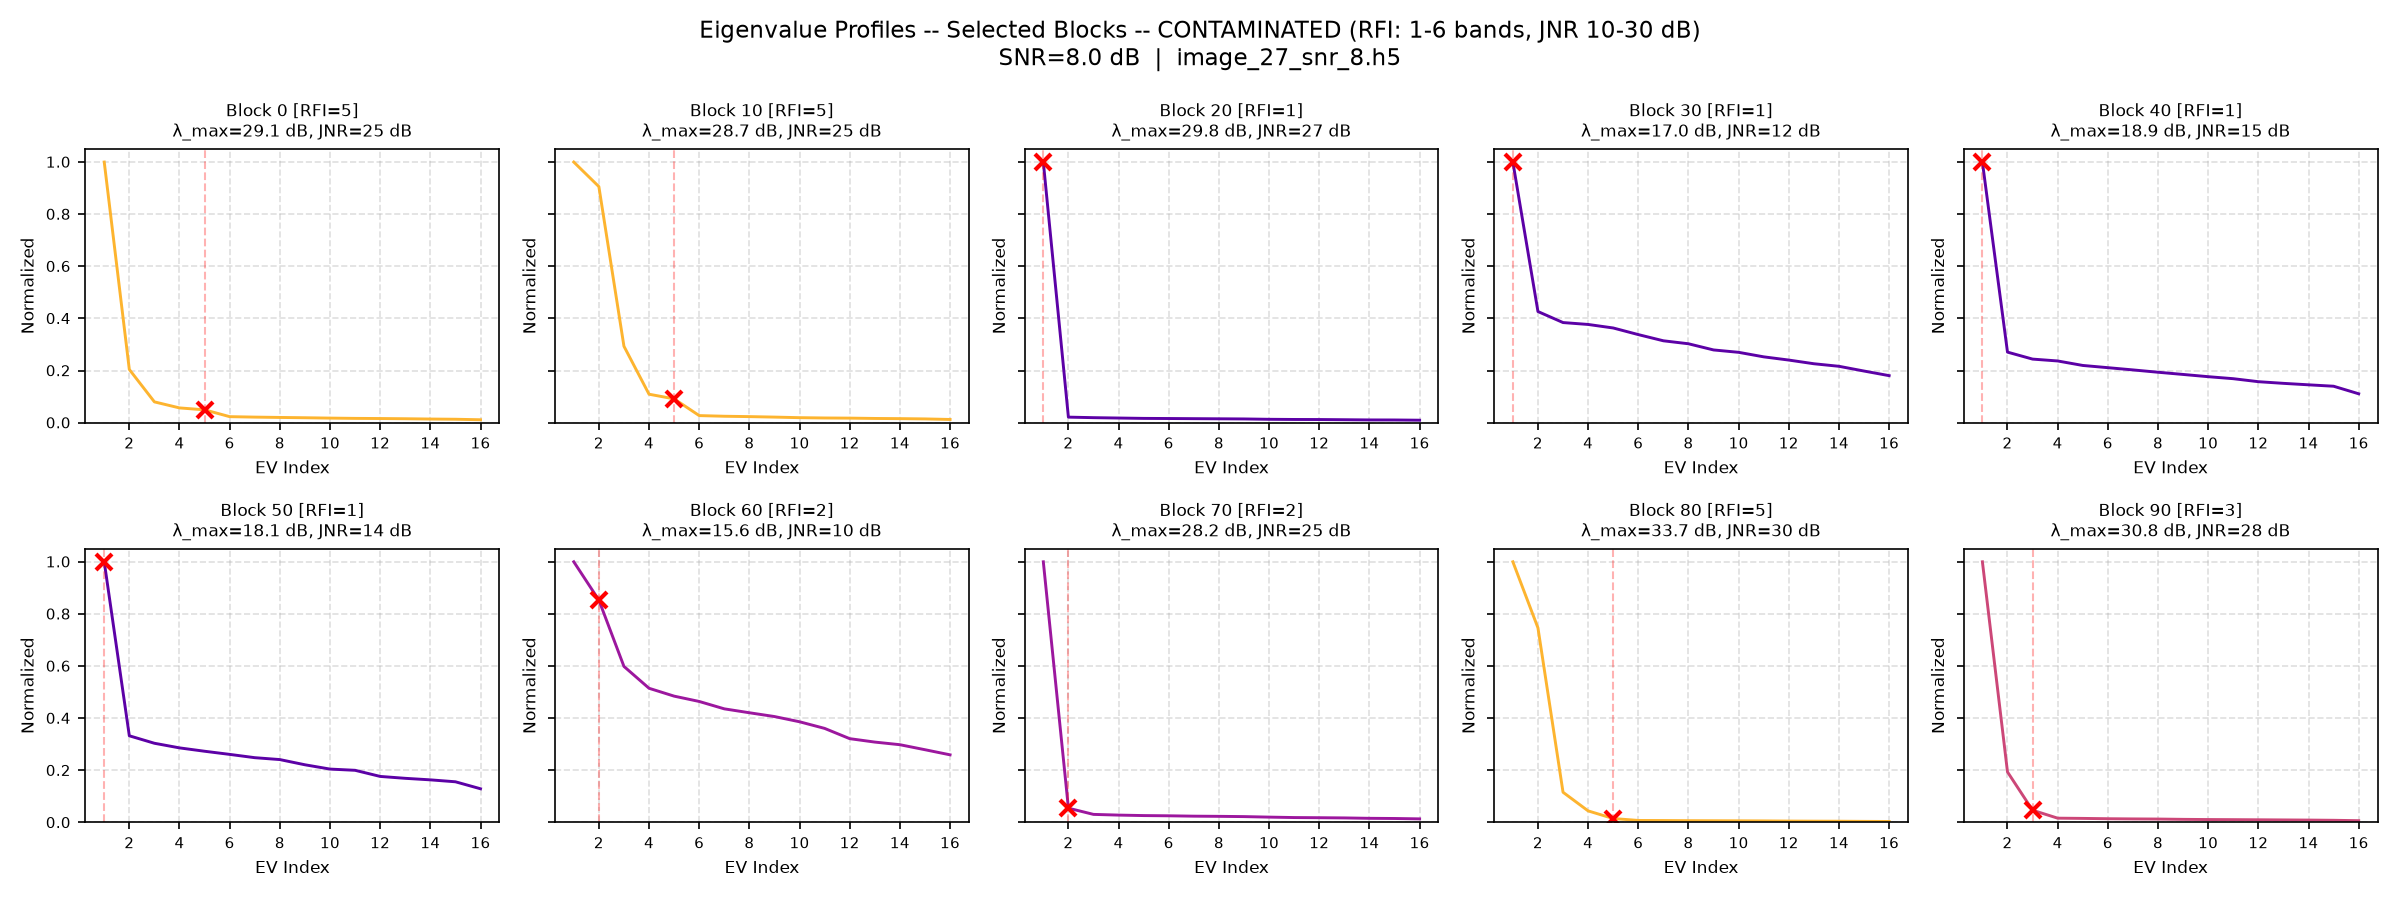
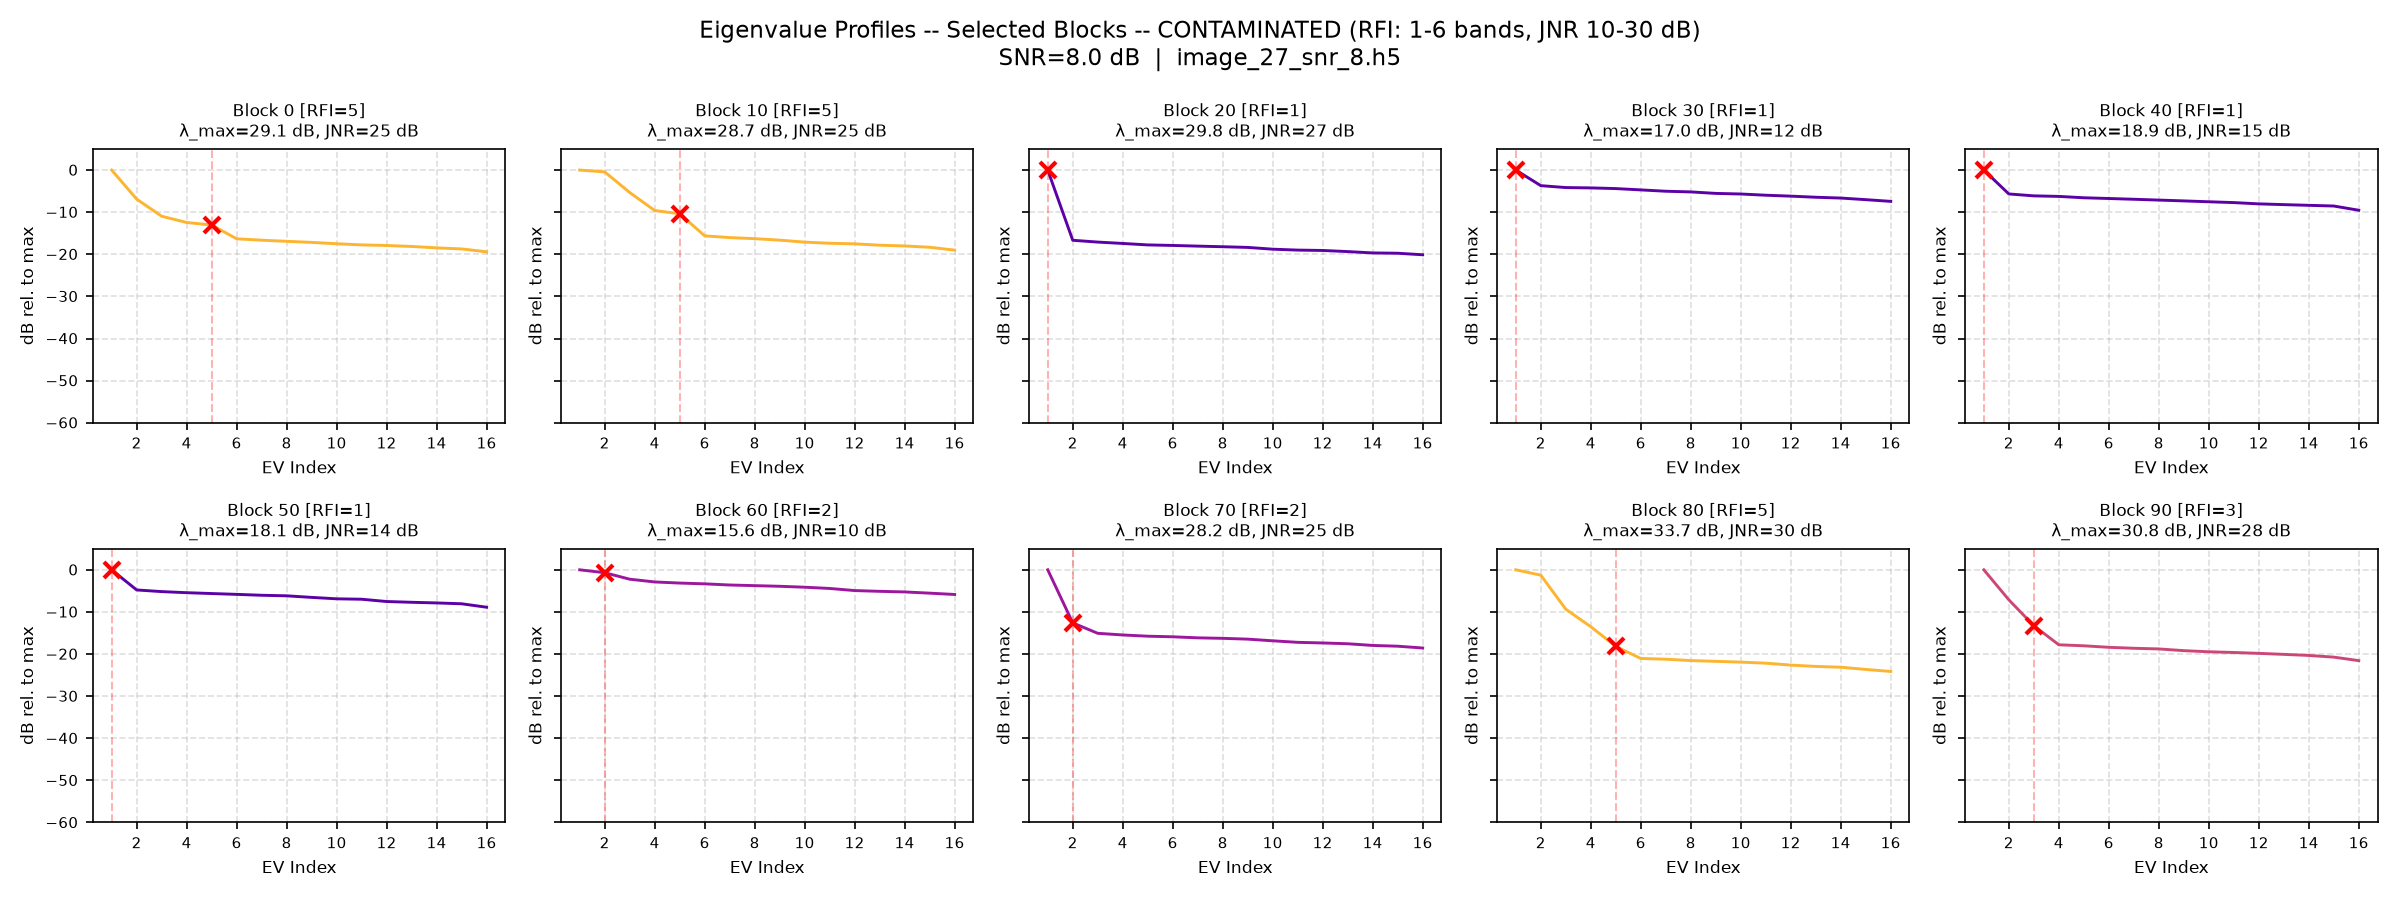
organize files

diff --git a/nisar_image/overlay_grid.py b/nisar_image/overlay_grid.py
@@ -1,0 +1,97 @@
+"""
+overlay_grid.py
+
+Overlay a horizontal pulse grid on a SAR scene image.
+Gridlines are spaced by global pulse number, not pixels.
+
+Global convention:
+    pixel row 0  <->  global pulse PULSE_START
+    pixel row H  <->  global pulse PULSE_STOP
+
+Usage:
+    python overlay_grid.py --img scene.png
+    python overlay_grid.py --img scene.png --pulse-step 5000
+    python overlay_grid.py --img scene.png --pulse-start 46528 --pulse-stop 124580
+"""
+
+import os
+import argparse
+from PIL import Image, ImageDraw, ImageFont
+
+DEFAULT_IMG         = 'image.png'
+DEFAULT_OUT         = 'scene_grid_overlay.png'
+DEFAULT_PULSE_START = 46528
+DEFAULT_PULSE_STOP  = 124580
+DEFAULT_PULSE_STEP  = 5000
+
+
+def overlay_grid(img_path, out_path, pulse_start, pulse_stop, pulse_step):
+    img  = Image.open(img_path).convert('RGB')
+    W, H = img.size
+    draw = ImageDraw.Draw(img)
+
+    font = None
+    for fp in [
+        '/usr/share/fonts/truetype/dejavu/DejaVuSansMono-Bold.ttf',
+        '/usr/share/fonts/truetype/liberation/LiberationMono-Bold.ttf',
+        '/usr/share/fonts/truetype/freefont/FreeMono.ttf',
+    ]:
+        if os.path.exists(fp):
+            font = ImageFont.truetype(fp, size=36)
+            break
+
+    pixels_per_pulse = H / (pulse_stop - pulse_start)
+
+    # Snap first gridline to the nearest pulse_step boundary above pulse_start
+    first = (pulse_start // pulse_step + 1) * pulse_step
+
+    pulse = first
+    while pulse < pulse_stop:
+        py = round((pulse - pulse_start) * pixels_per_pulse)
+        py = max(0, min(py, H - 1))
+
+        draw.line([(0, py), (W, py)], fill=(255, 255, 0), width=4)
+
+        label = f'g={pulse}  px={py}'
+        bbox  = draw.textbbox((0, 0), label, font=font)
+        th    = bbox[3] - bbox[1]
+        tw    = bbox[2] - bbox[0]
+        ty    = py + 6 if py + th + 10 < H else py - th - 6
+        draw.rectangle([6, ty - 2, tw + 14, ty + th + 2], fill=(0, 0, 0))
+        draw.text((10, ty), label, fill=(255, 255, 0), font=font)
+
+        pulse += pulse_step
+
+    img.save(out_path)
+    print(f'Saved -> {out_path}')
+    print(f'Image : {W} x {H} px  |  {1/pixels_per_pulse:.2f} pulses/pixel')
+    print(f'Pulse step : {pulse_step}  ({round(pulse_step * pixels_per_pulse):.0f} px between lines)')
+    print()
+    print(f'{"global pulse":>14}  {"px row":>8}')
+    print(f'{"------------":>14}  {"------":>8}')
+    pulse = first
+    while pulse < pulse_stop:
+        py = round((pulse - pulse_start) * pixels_per_pulse)
+        print(f'{pulse:14d}  {py:8d}')
+        pulse += pulse_step
+
+
+def main():
+    parser = argparse.ArgumentParser()
+    parser.add_argument('--img',         default=DEFAULT_IMG)
+    parser.add_argument('--out',         default=DEFAULT_OUT)
+    parser.add_argument('--pulse-start', type=int, default=DEFAULT_PULSE_START)
+    parser.add_argument('--pulse-stop',  type=int, default=DEFAULT_PULSE_STOP)
+    parser.add_argument('--pulse-step',  type=int, default=DEFAULT_PULSE_STEP,
+                        help='Global pulse interval between gridlines (default 5000).')
+    args = parser.parse_args()
+
+    if not os.path.exists(args.img):
+        raise FileNotFoundError(f'Image not found: {args.img}')
+
+    overlay_grid(args.img, args.out,
+                 args.pulse_start, args.pulse_stop, args.pulse_step)
+
+
+if __name__ == '__main__':
+    main()
